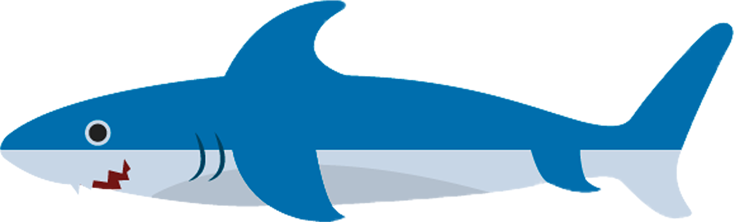
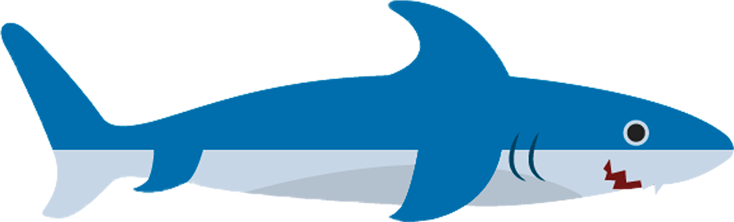
set shark and fish right/left

diff --git a/scripts/game.js b/scripts/game.js
@@ -163,25 +163,25 @@ class fish {
 function startGame(){
     fishContainer.innerHTML = ""
     fishs = [
-        new fish('fish', 'type1', 10, 8, 'right', 0),
-        new fish('fish', 'type1', 10, 10, 'right', 1),
-        new fish('fish', 'type1', 10, 15, 'left', 2),
+        new fish('fish', 'type1', 16, 8, 'right', 0),
+        new fish('fish', 'type1', 9, 10, 'right', 1),
+        new fish('fish', 'type1', 10, 15, 'right', 2),
         new fish('fish', 'type1', 10, 20, 'left', 3),
-        new fish('fish', 'type2', 10, 25, 'right', 4),
+        new fish('fish', 'type2', 10, 25, 'left', 4),
         new fish('fish', 'type2', 10, 30, 'right', 5),
         new fish('whale', 'type100', 15, -180, 'right', 6),
         new fish('fish', 'type3', 12, 20, 'right', 7),
         new fish('fish', 'type3', 12, 28, 'right', 8),
-        new fish('shark', 'type100', 13, -40, 'right', 9),
+        new fish('fish', 'type100', 13, -40, 'left', 9),
         new fish('fish', 'type4', 14, 34, 'left', 10),
         new fish('fish', 'type4', 14, 40, 'left', 11),
-        new fish('fish', 'type4', 14, 45, 'right', 12),
+        new fish('fish', 'type4', 14, 45, 'left', 12),
         new fish('fish', 'type5', 14, 52, 'right', 13),
         new fish('fish', 'type5', 14, 58, 'right', 14),
         new fish('fish', 'type5', 14, 64, 'left', 15),
         new fish('fish', 'type6', 14, 70, 'right', 16),
         new fish('fish', 'type6', 14, 72, 'left', 17),
-        new fish('goldFish', 'type100', 11, 150, 'right', 18),
+        new fish('goldFish', 'type100', 11, 150, 'left', 18),
         new fish('turtle', 'type100', 9, -180, 'right', 19),
         new fish('algea', 'type100', 18, 0, 'right', 20),
         new fish('garbage', 'type100', 10, 0, 'left', 21),

diff --git a/styles/game.css b/styles/game.css
@@ -532,7 +532,9 @@ BODY
 }
 
 /*DIMENSION*/
-
+#f0{
+    width: 200px;
+}
 #f1{
     width: 200px;
 }
